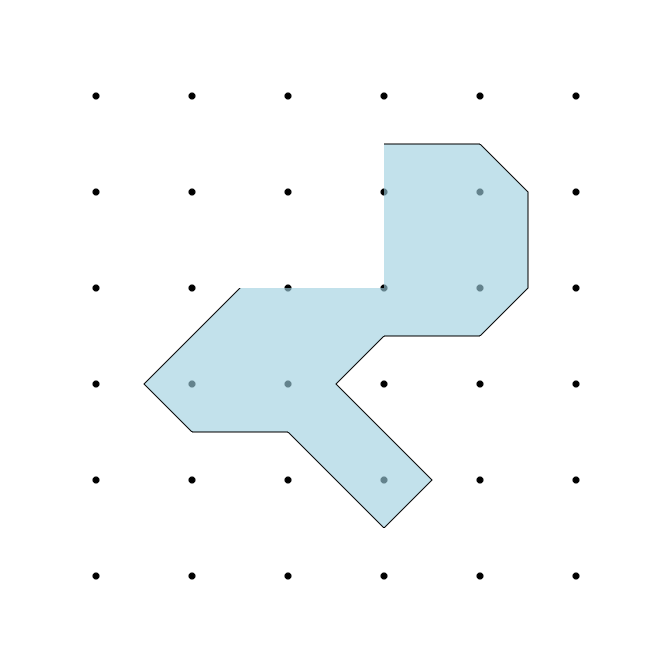
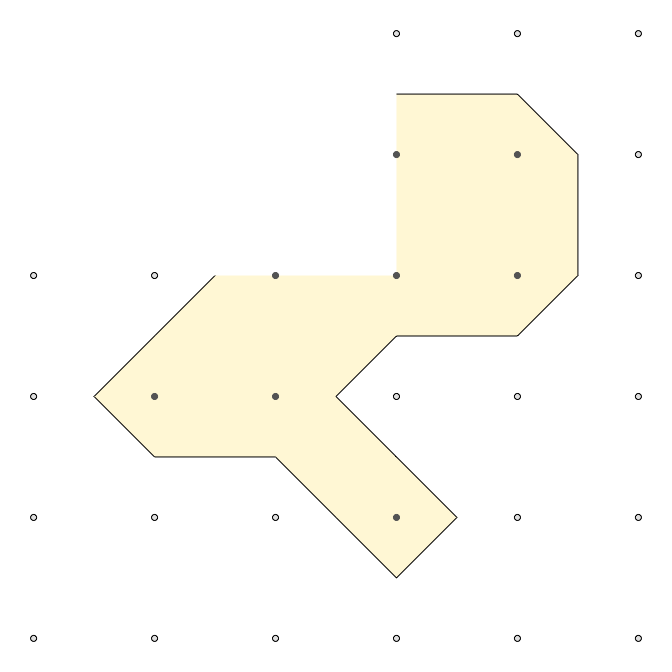
improved readme

diff --git a/README.md b/README.md
@@ -21,22 +21,62 @@ devtools::install_github("clauswilke/isoband")
 
 ## Example
 
-Simple isobanding examples:
+We begin with a few simple examples. The two main workhorses of the
+package are the functions `isolines()` and `isobands()`, respectively.
+They return a list of isolines/isobands for each isolevel specified.
+Each isoline/isoband consists of vectors of x and y coordinates, as well
+as a vector of ids specifying which sets of coordinates should be
+connected. This format can be handed directly to
+`grid.polyline()`/`grid.path()` for drawing (see below).
 
 ``` r
 library(isoband)
-library(grid)
 
-plot_iso <- function(m, vlo, vhi) {
-  df1 <- isobands((1:ncol(m))/(ncol(m)+1), (nrow(m):1)/(nrow(m)+1), m, vlo, vhi)[[1]]
-  df2 <- isolines((1:ncol(m))/(ncol(m)+1), (nrow(m):1)/(nrow(m)+1), m, vlo)[[1]]
-  g <- expand.grid(x = (1:ncol(m))/(ncol(m)+1), y = (nrow(m):1)/(nrow(m)+1))
-  grid.newpage()
-  grid.points(g$x, g$y, default.units = "npc", pch = 19, size = unit(0.5, "char"))
-  grid.path(df1$x, df1$y, df1$id, gp = gpar(fill = "#acd8e6a0", col = NA))
-  grid.polyline(df2$x, df2$y, df2$id)
-}
+m <- matrix(c(0, 0, 0, 0, 0,
+              0, 1, 2, 1, 0,
+              0, 1, 2, 0, 0,
+              0, 1, 0, 1, 0,
+              0, 0, 0, 0, 0), 5, 5, byrow = TRUE)
 
+isolines(1:ncol(m), 1:nrow(m), m, 0.5)
+#> $`0.5`
+#> $`0.5`$x
+#>  [1] 4.00 3.50 3.00 2.50 2.00 1.50 1.50 1.50 2.00 3.00 4.00 4.50 4.00 3.75
+#> [15] 4.00 4.50 4.00
+#> 
+#> $`0.5`$y
+#>  [1] 4.50 4.00 3.75 4.00 4.50 4.00 3.00 2.00 1.50 1.25 1.50 2.00 2.50 3.00
+#> [15] 3.50 4.00 4.50
+#> 
+#> $`0.5`$id
+#>  [1] 1 1 1 1 1 1 1 1 1 1 1 1 1 1 1 1 1
+isobands(1:ncol(m), 1:nrow(m), m, 0.5, 1.5)
+#> $`0.5-1.5`
+#> $`0.5-1.5`$x
+#>  [1] 2.50 2.00 1.50 1.50 1.50 2.00 3.00 4.00 4.50 4.00 3.75 4.00 4.50 4.00
+#> [15] 3.50 3.00 3.00 3.25 3.50 3.00 2.50 2.50
+#> 
+#> $`0.5-1.5`$y
+#>  [1] 4.00 4.50 4.00 3.00 2.00 1.50 1.25 1.50 2.00 2.50 3.00 3.50 4.00 4.50
+#> [15] 4.00 3.75 3.25 3.00 2.00 1.75 2.00 3.00
+#> 
+#> $`0.5-1.5`$id
+#>  [1] 1 1 1 1 1 1 1 1 1 1 1 1 1 1 1 1 2 2 2 2 2 2
+```
+
+The function `plot_iso()` is a convenience function for debugging and
+testing.
+
+``` r
+plot_iso(m, 0.5, 1.5)
+```
+
+<img src="man/figures/README-basic-example-plot-1.png" width="50%" />
+
+A few more simple examples. Missing values and disconnected areas are
+all handled correctly.
+
+``` r
 m <- matrix(c(0, 0, 0, 0, 0, 0,
               0, 0, 0, 1, 1, 0,
               0, 0, 1, 1, 1, 0,
@@ -46,36 +86,41 @@ m <- matrix(c(0, 0, 0, 0, 0, 0,
 plot_iso(m, 0.5, 1.5)
 ```
 
-<img src="man/figures/README-basic-examples-1.png" width="75%" />
+<img src="man/figures/README-basic-plotting-1.png" width="50%" />
 
 ``` r
 
 m <- matrix(c(NA, NA, NA, 0, 0, 0,
               NA, NA, NA, 1, 1, 0,
-              0, 0, 1, 1, 1, 0,
-              0, 1, 1, 0, 0, 0,
-              0, 0, 0, 1, 0, 0,
-              0, 0, 0, 0, 0, 0), 6, 6, byrow = TRUE)
+               0,  0,  1, 1, 1, 0,
+               0,  1,  1, 0, 0, 0,
+               0,  0,  0, 1, 0, 0,
+               0,  0,  0, 0, 0, 0), 6, 6, byrow = TRUE)
 plot_iso(m, 0.5, 1.5)
 ```
 
-<img src="man/figures/README-basic-examples-2.png" width="75%" />
+<img src="man/figures/README-basic-plotting-2.png" width="50%" />
 
 ``` r
 
-m <- matrix(c(0, 0, 1, 1, 0, 1, 1, 1, 1, 1, 0, 0, 0, 0, 0.8, 0), 4, 4, byrow = TRUE)
+m <- matrix(c(0, 0, 1, 1,
+              0, 1, 1, 1,
+              1, 1, 0, 0,
+              0, 0, 0.8, 0), 4, 4, byrow = TRUE)
 plot_iso(m, 0.5, 1.5)
 ```
 
-<img src="man/figures/README-basic-examples-3.png" width="75%" />
+<img src="man/figures/README-basic-plotting-3.png" width="50%" />
 
-Isobanding the volcano dataset:
+The algorithm has no problem with larger datasets. Next we calculate a
+few isolines/isobands for the volcano dataset.
 
 ``` r
 m <- volcano
 b <- isobands((1:ncol(m))/(ncol(m)+1), (nrow(m):1)/(nrow(m)+1), m, c(80, 120, 150), c(110, 140, 152))
 l <- isolines((1:ncol(m))/(ncol(m)+1), (nrow(m):1)/(nrow(m)+1), m, c(110, 120, 140, 150, 152))
 
+library(grid)
 grid.newpage()
 grid.path(b[[1]]$x, b[[1]]$y, b[[1]]$id, gp = gpar(fill = "cornsilk", col = NA))
 grid.path(b[[2]]$x, b[[2]]$y, b[[2]]$id, gp = gpar(fill = "lightblue", col = NA))
@@ -102,7 +147,7 @@ microbenchmark::microbenchmark(
 #>                               isolines(1:ncol(volcano), 1:nrow(volcano), volcano, 10 * (10:18))
 #>             isobands(1:ncol(volcano), 1:nrow(volcano), volcano, 10 * (9:17),      10 * (10:18))
 #>       min       lq     mean   median       uq       max neval
-#>  1.653287 1.821338 2.350678 2.022496 2.538219  8.525243   100
-#>  1.718481 1.818973 2.197304 2.008301 2.180246  8.205451   100
-#>  4.498705 4.802478 5.238148 5.019103 5.411689 12.646945   100
+#>  1.626867 1.749204 2.409475 1.954476 2.522536 10.089407   100
+#>  1.694592 1.798536 2.068423 2.043860 2.203273  3.030934   100
+#>  4.237472 4.489288 5.126154 4.804774 5.285899 15.584814   100
 ```
